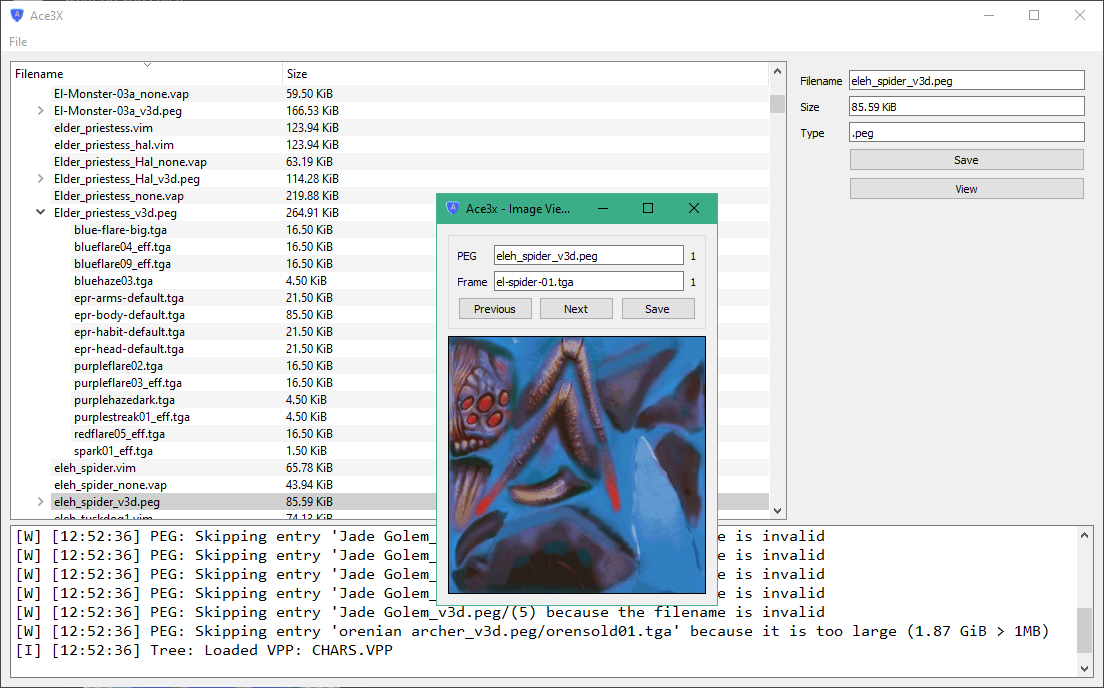
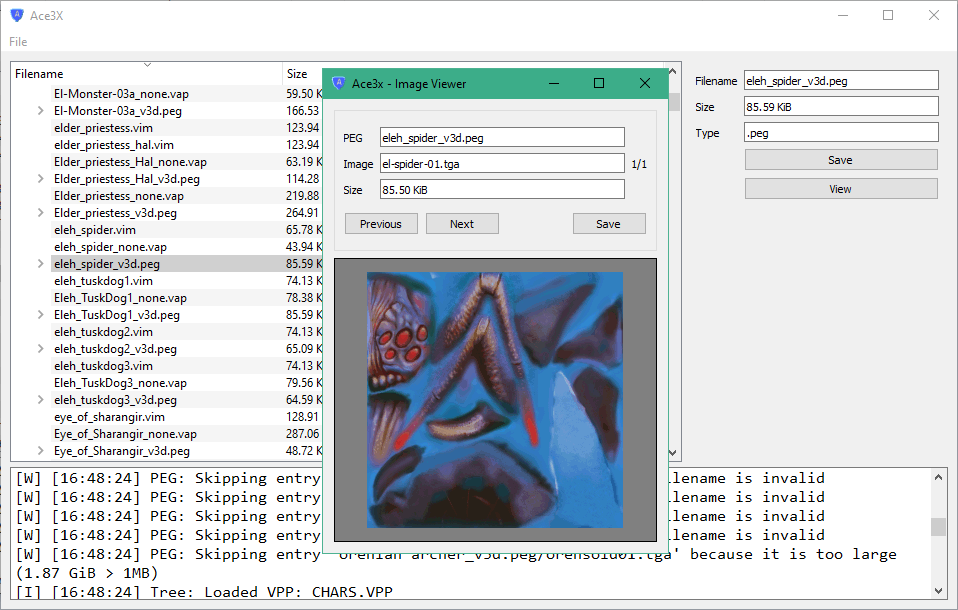
Update ImageViewer

diff --git a/src/widgets/format-viewers/image-viewer.cpp b/src/widgets/format-viewers/image-viewer.cpp
@@ -51,14 +51,13 @@ void ImageViewer::activate(const VfsEntry *item)
 
     assert(current_frame_index_ < peg_->entries.size());
 
-    ui_->pegLineEdit->setText(QString::fromStdString(peg_->name));
-    ui_->frameLineEdit->setText(QString::fromStdString(peg_->entries[current_frame_index_]->name));
-    ui_->numFrames->setText(QString::number(peg_->entries.size()));
-    ui_->frameIndex->setText(QString::number(current_frame_index_ + 1));
+    ui_->peg_name->setText(QString::fromStdString(peg_->name));
+    ui_->image_name->setText(QString::fromStdString(peg_->entries[current_frame_index_]->name));
+    ui_->image_index->setText(QString("%1/%2").arg(current_frame_index_ + 1).arg(peg_->entries.size()));
 
     images_ = ace3x::peg::get_images(peg_->data);
 
-    update();
+    updateImage();
 }
 
 void ImageViewer::keyPressEvent(QKeyEvent *event)
@@ -90,28 +89,26 @@ void ImageViewer::keyPressEvent(QKeyEvent *event)
 void ImageViewer::nextFrame()
 {
     current_frame_index_ = (current_frame_index_ + 1) % peg_->entries.size();
-    ui_->frameIndex->setText(QString::number(current_frame_index_ + 1));
-
-    update();
+    updateImage();
 }
 
 void ImageViewer::prevFrame()
 {
     current_frame_index_ = ((current_frame_index_ - 1) + peg_->entries.size()) % peg_->entries.size();
-    ui_->frameIndex->setText(QString::number(current_frame_index_ + 1));
-
-    update();
+    updateImage();
 }
 
-void ImageViewer::update()
+void ImageViewer::updateImage()
 {
-    const auto peg_image = images_[current_frame_index_];
+    const auto &peg_image = images_[current_frame_index_];
     const auto qt_image = QImage(reinterpret_cast<const unsigned char *>(peg_image.pixels.data()), peg_image.width, peg_image.height, QImage::Format_ARGB32);
 
     current_frame_name_ = QString::fromStdString(peg_image.filename);
 
-    ui_->frameLineEdit->setText(QString::fromStdString(peg_image.filename));
-    ui_->label->setPixmap(QPixmap::fromImage(qt_image));
+    ui_->image_name->setText(QString::fromStdString(peg_image.filename));
+    ui_->image_size->setText(QLocale::system().formattedDataSize(peg_->entries[current_frame_index_]->size, 2, nullptr));
+    ui_->image_index->setText(QString("%1/%2").arg(current_frame_index_ + 1).arg(peg_->entries.size()));
+    ui_->image_label->setPixmap(QPixmap::fromImage(qt_image));
 }
 
 bool ImageViewer::shouldBeEnabled(const VfsEntry *item) const
@@ -131,7 +128,7 @@ void ImageViewer::saveFrame()
     if (false == file.open(QIODevice::WriteOnly)) {
         spdlog::error("Image viewer: Failed to open file for writing: '{}'", fileName.toStdString());
     }
-    else if (!ui_->label->pixmap()->save(fileName, "PNG")) {
+    else if (!ui_->image_label->pixmap()->save(fileName, "PNG")) {
         spdlog::error("Image viewer: Failed to write data for '{}'", fileName.toStdString());
     }
     else {

diff --git a/src/widgets/format-viewers/image-viewer.hpp b/src/widgets/format-viewers/image-viewer.hpp
@@ -28,7 +28,7 @@ protected:
     void keyPressEvent(QKeyEvent *event) override;
 
 private:
-    void update();
+    void updateImage();
 
 private slots:
     void nextFrame();
